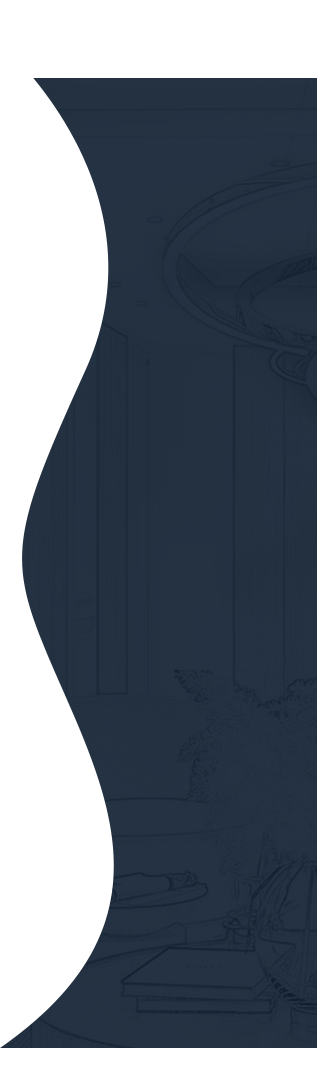
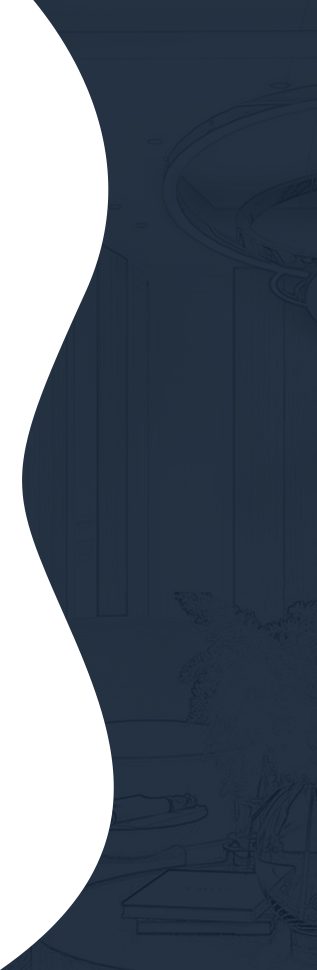
首页bug修改

diff --git a/src/pages/home.vue b/src/pages/home.vue
@@ -367,7 +367,7 @@
 				<div class="swiper-pagination3"></div>
 				<div class="bgimg">
 					<div>
-						<p>01</p>
+						<p class="banner-tag">01</p>
 						<h5>软装</h5>
 						<h6>Soft outfit</h6>
 						<i class="next3"></i>
@@ -2098,8 +2098,8 @@ export default home;
 				z-index: 3;
 				width: 431px;
 				height: 100%;
-				background: url('~assets/bg_home_b5_mask2.png') center;
-				background-size: cover;
+				background: url('~assets/bg_home_b5_mask2.png') no-repeat;
+				background-size: 100% 100%;
 				color: #fff;
 				padding-left: 225px;
 				padding-top: 295px;

diff --git a/src/pages/home.ts b/src/pages/home.ts
@@ -220,6 +220,10 @@ export default class home extends Vue {
 			nextEl: '.next3'
 		},
 		on: {
+			slideChangeTransitionStart: function() {
+				let tag = this.realIndex < 10 ? '0' + (this.realIndex + 1) : this.realIndex + 1;
+				document.querySelector('.banner-tag').innerHTML = tag;
+			},
 			slideChangeTransitionEnd: function() {
 				for (let i = 0; i <= this.slides.length - 1; i++) {
 					this.slides[i].classList.remove('active');
@@ -228,6 +232,7 @@ export default class home extends Vue {
 			}
 		}
 	};
+
 	options1 = {
 		suffix: '+',
 		useGrouping: false
